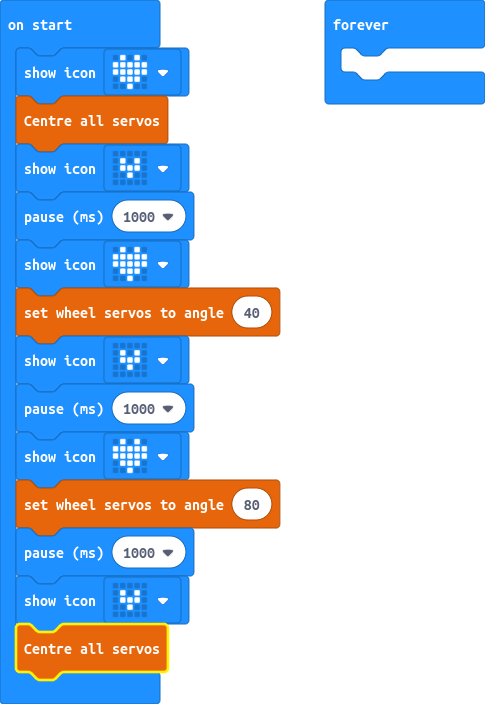
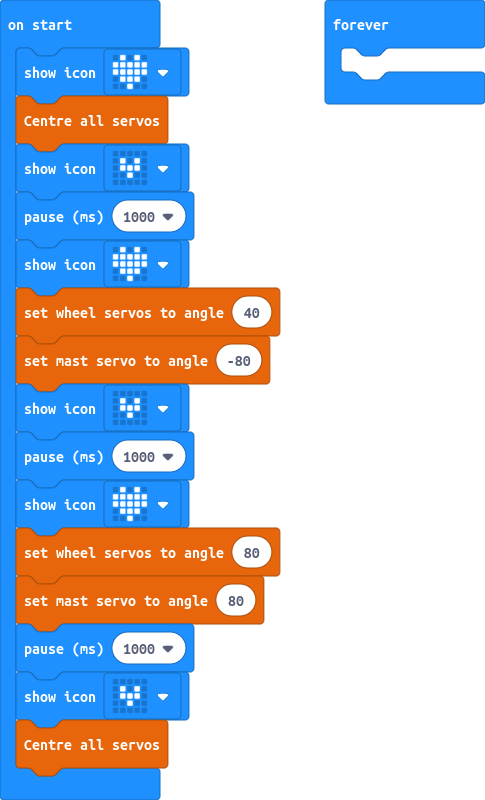
Added in Mast control block - same behaviour as corner motors but, funnily enough, aimed at the mast :)

Changed region(s): [[0.0, 0.0312, 0.5876, 0.9688], [0.6495, 0.0, 1.0, 0.1562]]

diff --git a/custom.ts b/custom.ts
@@ -203,7 +203,7 @@ namespace Rover {
     //% block="Centre all servos"
     //% weight=100
     //% subcategory=Servos
-  
+
 
     export function zeroServos(): void {
         for (let i = 0; i < 16; i++)
@@ -252,7 +252,7 @@ namespace Rover {
       */
     //% blockId="setWheelServo"
     //% block="set wheel servos to angle %angle"
-    //% weight=90
+    //% weight=100
     //% subcategory=Servos
     export function setWheelServos(angle: number): void {
         if (initI2C == false) {
@@ -269,11 +269,49 @@ namespace Rover {
             angle = 90;
         if (angle < -90)
             angle = -90;
-        
-     
+
+
         for (let motorServo = 0; motorServo <= motorServos.length; motorServo++) {
-           
-        let servo = motorServos[motorServo];
+
+            let servo = motorServos[motorServo];
+            let stop = 369 + (angle + servoOffset[servo]) * 223 / 90;
+            i2cData[0] = SERVOS + servo * 4 + 2;	// Servo register
+            i2cData[1] = (stop & 0xff);		// low byte stop
+            pins.i2cWriteBuffer(PCA, i2cData, false);
+
+            i2cData[0] = SERVOS + servo * 4 + 3;	// Servo register
+            i2cData[1] = (stop >> 8);		// high byte stop
+            pins.i2cWriteBuffer(PCA, i2cData, false);
+        }
+    }
+
+    /**
+      * Set mast Servo Position by Angle
+      * @param servo Servo number (0 to 15)
+      * @param angle degrees to turn servo (-90 to +90)
+      */
+    //% blockId="setMastServo"
+    //% block="set mast servo to angle %angle"
+    //% weight=90
+    //% subcategory=Servos
+    export function setMastServo(angle: number): void {
+        if (initI2C == false) {
+            initPCA();
+        }
+        // two bytes need setting for start and stop positions of the servo
+        // servos start at SERVOS (0x06) and are then consecutive blocks of 4 bytes
+        // the start position (always 0x00) is set during init for all servos
+        // the zero offset for each servo is read during init into the servoOffset array
+
+        let i2cData = pins.createBuffer(2);
+        /*let start = 0;*/
+        if (angle > 90)
+            angle = 90;
+        if (angle < -90)
+            angle = -90;
+
+
+        let servo = 0;
         let stop = 369 + (angle + servoOffset[servo]) * 223 / 90;
         i2cData[0] = SERVOS + servo * 4 + 2;	// Servo register
         i2cData[1] = (stop & 0xff);		// low byte stop
@@ -282,9 +320,8 @@ namespace Rover {
         i2cData[0] = SERVOS + servo * 4 + 3;	// Servo register
         i2cData[1] = (stop >> 8);		// high byte stop
         pins.i2cWriteBuffer(PCA, i2cData, false);
-        }
-    }
 
+    }
 
     /**
       * Set Servo Offset then zero the servo
@@ -315,7 +352,7 @@ namespace Rover {
 
     //% blockId="motor_angle"
     //% block="Wheel Angle"
-    //% weight=80
+    //% weight=0
     //% subcategory=Servos
 
     export function getMotorAngle(): number {

diff --git a/main.ts b/main.ts
@@ -4,10 +4,12 @@ basic.showIcon(IconNames.SmallHeart)
 basic.pause(1000)
 basic.showIcon(IconNames.Heart)
 Rover.setWheelServos(40)
+Rover.setMastServo(-80)
 basic.showIcon(IconNames.SmallHeart)
 basic.pause(1000)
 basic.showIcon(IconNames.Heart)
 Rover.setWheelServos(80)
+Rover.setMastServo(80)
 basic.pause(1000)
 basic.showIcon(IconNames.SmallHeart)
 Rover.zeroServos()
